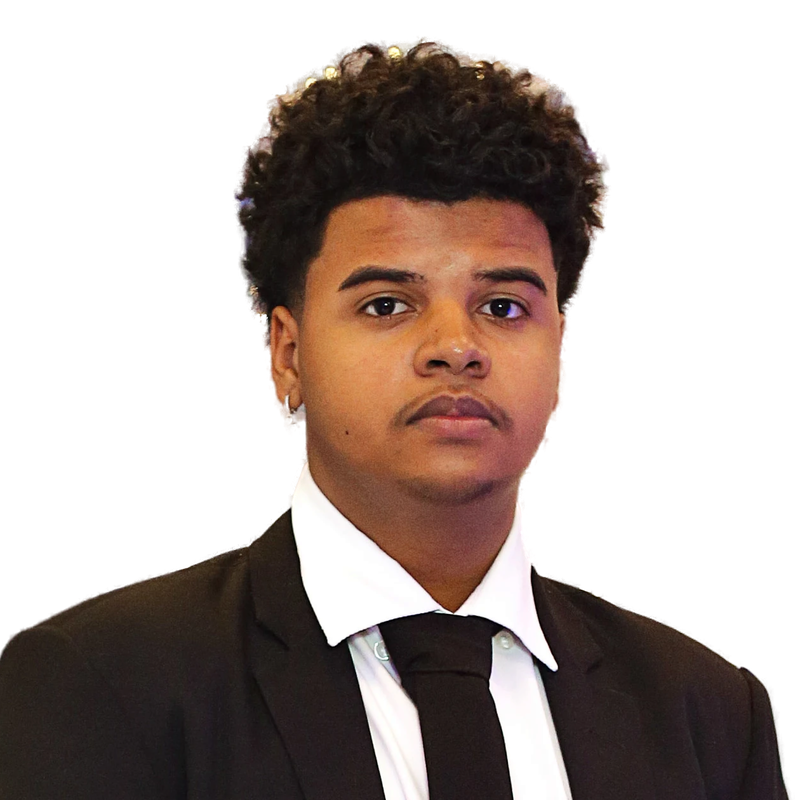
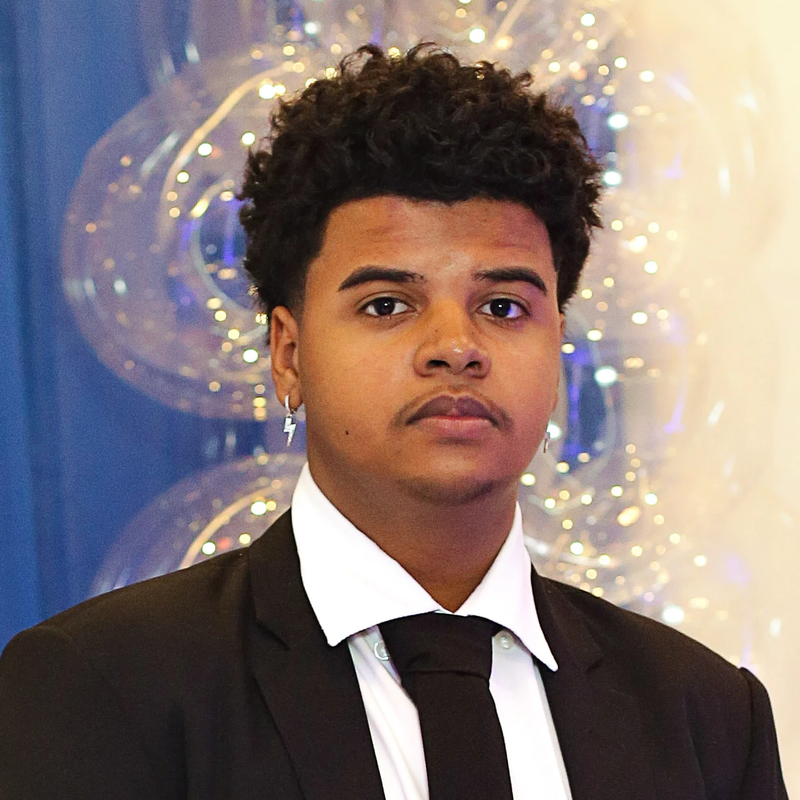
feat(assets): foto redonda com fundo original e prints do Clinics e da Barbearia

diff --git a/scripts/screenshots.spec.ts b/scripts/screenshots.spec.ts
@@ -1,0 +1,22 @@
+import { test } from "@playwright/test";
+
+const out = (name: string) => `.superpowers/shots/${name}.png`;
+const desktop = { width: 1440, height: 900 };
+const mobile = { width: 390, height: 844 };
+
+const targets = [
+  { name: "clinics-landing", url: "https://clinics.marciodev.com/", viewport: desktop, wait: 2000 },
+  { name: "clinics-app", url: "https://clinics.marciodev.com/app/", viewport: mobile, wait: 8000 },
+  { name: "barbearia-desktop", url: "https://sistema-barbearia-black.vercel.app/", viewport: desktop, wait: 4000 },
+  { name: "barbearia-mobile", url: "https://sistema-barbearia-black.vercel.app/", viewport: mobile, wait: 4000 },
+];
+
+for (const t of targets) {
+  test(t.name, async ({ browser }) => {
+    const page = await browser.newPage({ viewport: t.viewport, deviceScaleFactor: 2 });
+    await page.goto(t.url, { waitUntil: "networkidle" });
+    await page.waitForTimeout(t.wait);
+    await page.screenshot({ path: out(t.name) });
+    await page.close();
+  });
+}

diff --git a/scripts/screenshots-clinics.spec.ts b/scripts/screenshots-clinics.spec.ts
@@ -1,0 +1,14 @@
+import { test } from "@playwright/test";
+
+// Navega no app Flutter (canvas) como visitante e captura telas internas do Clinics.
+test("clinics-telas", async ({ browser }) => {
+  const page = await browser.newPage({ viewport: { width: 390, height: 844 }, deviceScaleFactor: 2 });
+  await page.goto("https://clinics.marciodev.com/app/", { waitUntil: "networkidle" });
+  await page.waitForTimeout(6000);
+  await page.mouse.click(195, 671); // "Entrar como visitante"
+  await page.waitForTimeout(5000);
+  await page.screenshot({ path: ".superpowers/shots/clinics-inicio.png" });
+  await page.mouse.click(329, 500); // "Ver" do exame mais buscado
+  await page.waitForTimeout(5000);
+  await page.screenshot({ path: ".superpowers/shots/clinics-comparacao.png" });
+});

diff --git a/scripts/screenshots.config.ts b/scripts/screenshots.config.ts
@@ -1,0 +1,4 @@
+import { defineConfig } from "@playwright/test";
+
+// Captura prints dos projetos publicados. Fora do CI: `npx playwright test -c scripts/screenshots.config.ts`.
+export default defineConfig({ testDir: ".", testMatch: "screenshots*.spec.ts", timeout: 90_000 });

diff --git a/scripts/make-covers.py b/scripts/make-covers.py
@@ -1,0 +1,56 @@
+"""Monta capas 1200x630 e imagens de galeria (WebP) a partir dos prints em .superpowers/shots.
+
+Uso: ~/.venvs/rembg/bin/python scripts/make-covers.py
+"""
+from pathlib import Path
+
+from PIL import Image, ImageDraw
+
+SHOTS = Path(".superpowers/shots")
+ASSETS = Path("src/assets/projetos")
+BG = "#201D18"  # superfície do tema escuro
+W, H = 1200, 630
+
+
+def rounded(im: Image.Image, radius: int) -> Image.Image:
+    mask = Image.new("L", im.size, 0)
+    ImageDraw.Draw(mask).rounded_rectangle((0, 0, *im.size), radius, fill=255)
+    out = im.convert("RGBA")
+    out.putalpha(mask)
+    return out
+
+
+def fit_h(im: Image.Image, h: int) -> Image.Image:
+    return im.resize((round(im.width * h / im.height), h), Image.LANCZOS)
+
+
+def phones(names: list[str]) -> Image.Image:
+    cover = Image.new("RGBA", (W, H), BG)
+    shots = [rounded(fit_h(Image.open(SHOTS / f"{n}.png"), 560), 28) for n in names]
+    total = sum(s.width for s in shots) + 40 * (len(shots) - 1)
+    x = (W - total) // 2
+    for s in shots:
+        cover.alpha_composite(s, (x, 35))
+        x += s.width + 40
+    return cover
+
+
+def desktop(name: str) -> Image.Image:
+    cover = Image.new("RGBA", (W, H), BG)
+    shot = Image.open(SHOTS / f"{name}.png")
+    shot = rounded(shot.resize((1080, round(shot.height * 1080 / shot.width)), Image.LANCZOS).crop((0, 0, 1080, 570)), 18)
+    cover.alpha_composite(shot, (60, 30))
+    return cover
+
+
+def save(im: Image.Image, slug: str, name: str) -> None:
+    (ASSETS / slug).mkdir(parents=True, exist_ok=True)
+    im.convert("RGB").save(ASSETS / slug / f"{name}.webp", "WEBP", quality=86)
+
+
+save(phones(["clinics-inicio", "clinics-comparacao"]), "clinics", "cover")
+save(desktop("barbearia-desktop"), "barbearia", "cover")
+for n in ["clinics-landing", "clinics-app", "clinics-inicio", "clinics-comparacao"]:
+    save(Image.open(SHOTS / f"{n}.png"), "clinics", n.removeprefix("clinics-"))
+for n in ["barbearia-desktop", "barbearia-mobile"]:
+    save(Image.open(SHOTS / f"{n}.png"), "barbearia", n.removeprefix("barbearia-"))

diff --git a/scripts/process-photo.py b/scripts/process-photo.py
@@ -1,12 +1,11 @@
-"""Recorta a foto em cabeça e ombros e remove o fundo localmente (rembg).
+"""Recorta a foto em cabeça e ombros, mantendo o fundo original.
 
-Uso: ~/.venvs/rembg/bin/python scripts/process-photo.py <entrada> <saida.png>
-O fundo vira transparente; a cor do tema é aplicada por CSS no site.
+Uso: python3 scripts/process-photo.py <entrada> <saida.png>
+O formato redondo é aplicado por CSS no site.
 """
 import sys
 
 from PIL import Image
-from rembg import new_session, remove
 
 # Caixa (esquerda, topo, direita, base) em proporção da imagem original, ajustada à foto de 2000x2000.
 CROP = (0.17, 0.03, 0.80, 0.66)
@@ -17,8 +16,7 @@ def main(src: str, dst: str) -> None:
     im = Image.open(src).convert("RGB")
     w, h = im.size
     box = (int(CROP[0] * w), int(CROP[1] * h), int(CROP[2] * w), int(CROP[3] * h))
-    cut = remove(im.crop(box), session=new_session("u2net_human_seg"), alpha_matting=True)
-    cut.resize((SIZE, SIZE), Image.LANCZOS).save(dst, optimize=True)
+    im.crop(box).resize((SIZE, SIZE), Image.LANCZOS).save(dst, optimize=True)
 
 
 if __name__ == "__main__":

diff --git a/src/content/projetos/clinics.md b/src/content/projetos/clinics.md
@@ -9,6 +9,15 @@ context: "Disciplina de Programação para Dispositivos Móveis · UPE"
 repo: "https://github.com/MarcioFerreiraL/clinics-backend"
 demo: "https://clinics.marciodev.com"
 team: ["Márcio Ferreira Lima", "Lucas Nascimento Barros"]
+gallery:
+  - src: "../../assets/projetos/clinics/landing.webp"
+    alt: "Página pública do Clinics com download do app para Android, iPhone e navegador"
+  - src: "../../assets/projetos/clinics/app.webp"
+    alt: "Tela de login do app Clinics, com entrada por WhatsApp ou como visitante"
+  - src: "../../assets/projetos/clinics/inicio.webp"
+    alt: "Tela inicial do app com busca de exames e os mais buscados em Surubim"
+  - src: "../../assets/projetos/clinics/comparacao.webp"
+    alt: "Comparação de preços de um ultrassom em várias clínicas, com botão de WhatsApp"
 ---
 
 ## Contexto

diff --git a/src/content/projetos/barbearia.md b/src/content/projetos/barbearia.md
@@ -7,6 +7,11 @@ status: "destaque"
 cover: "../../assets/projetos/barbearia/cover.webp"
 repo: "https://github.com/MarcioFerreiraL/sistema-barbearia"
 demo: "https://sistema-barbearia-black.vercel.app"
+gallery:
+  - src: "../../assets/projetos/barbearia/desktop.webp"
+    alt: "Página inicial da Barbearia do Zé no computador"
+  - src: "../../assets/projetos/barbearia/mobile.webp"
+    alt: "Página inicial da Barbearia do Zé no celular"
 ---
 
 ## Contexto
